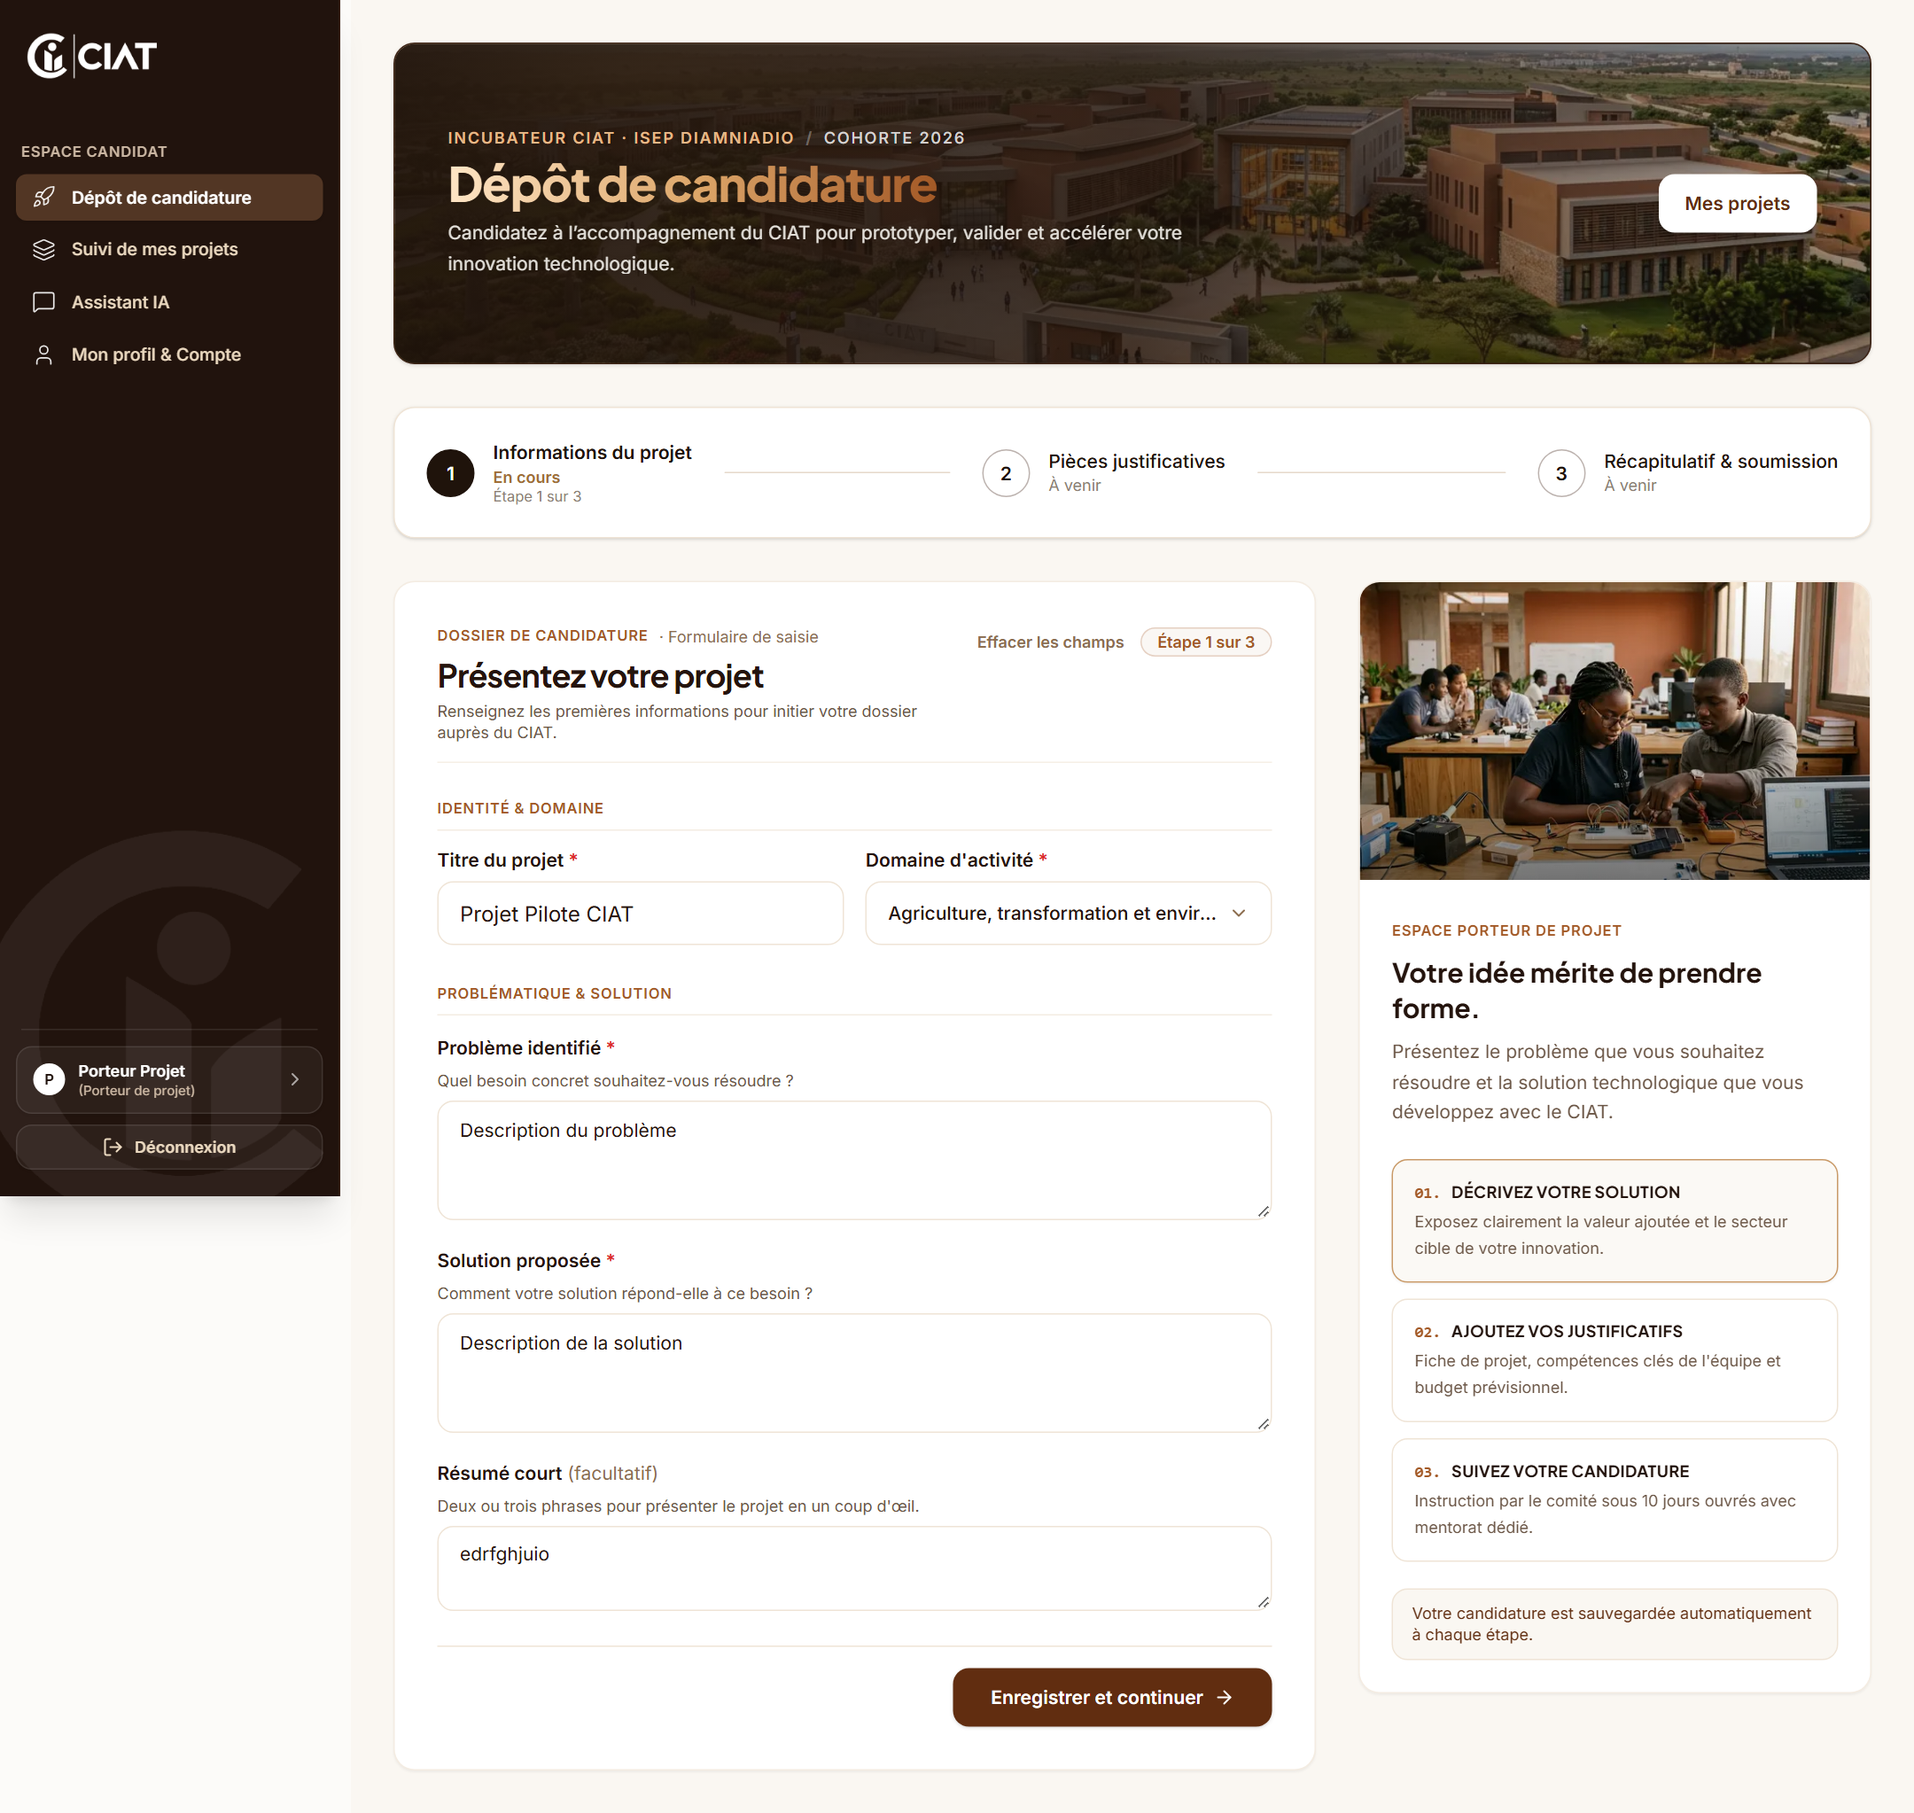
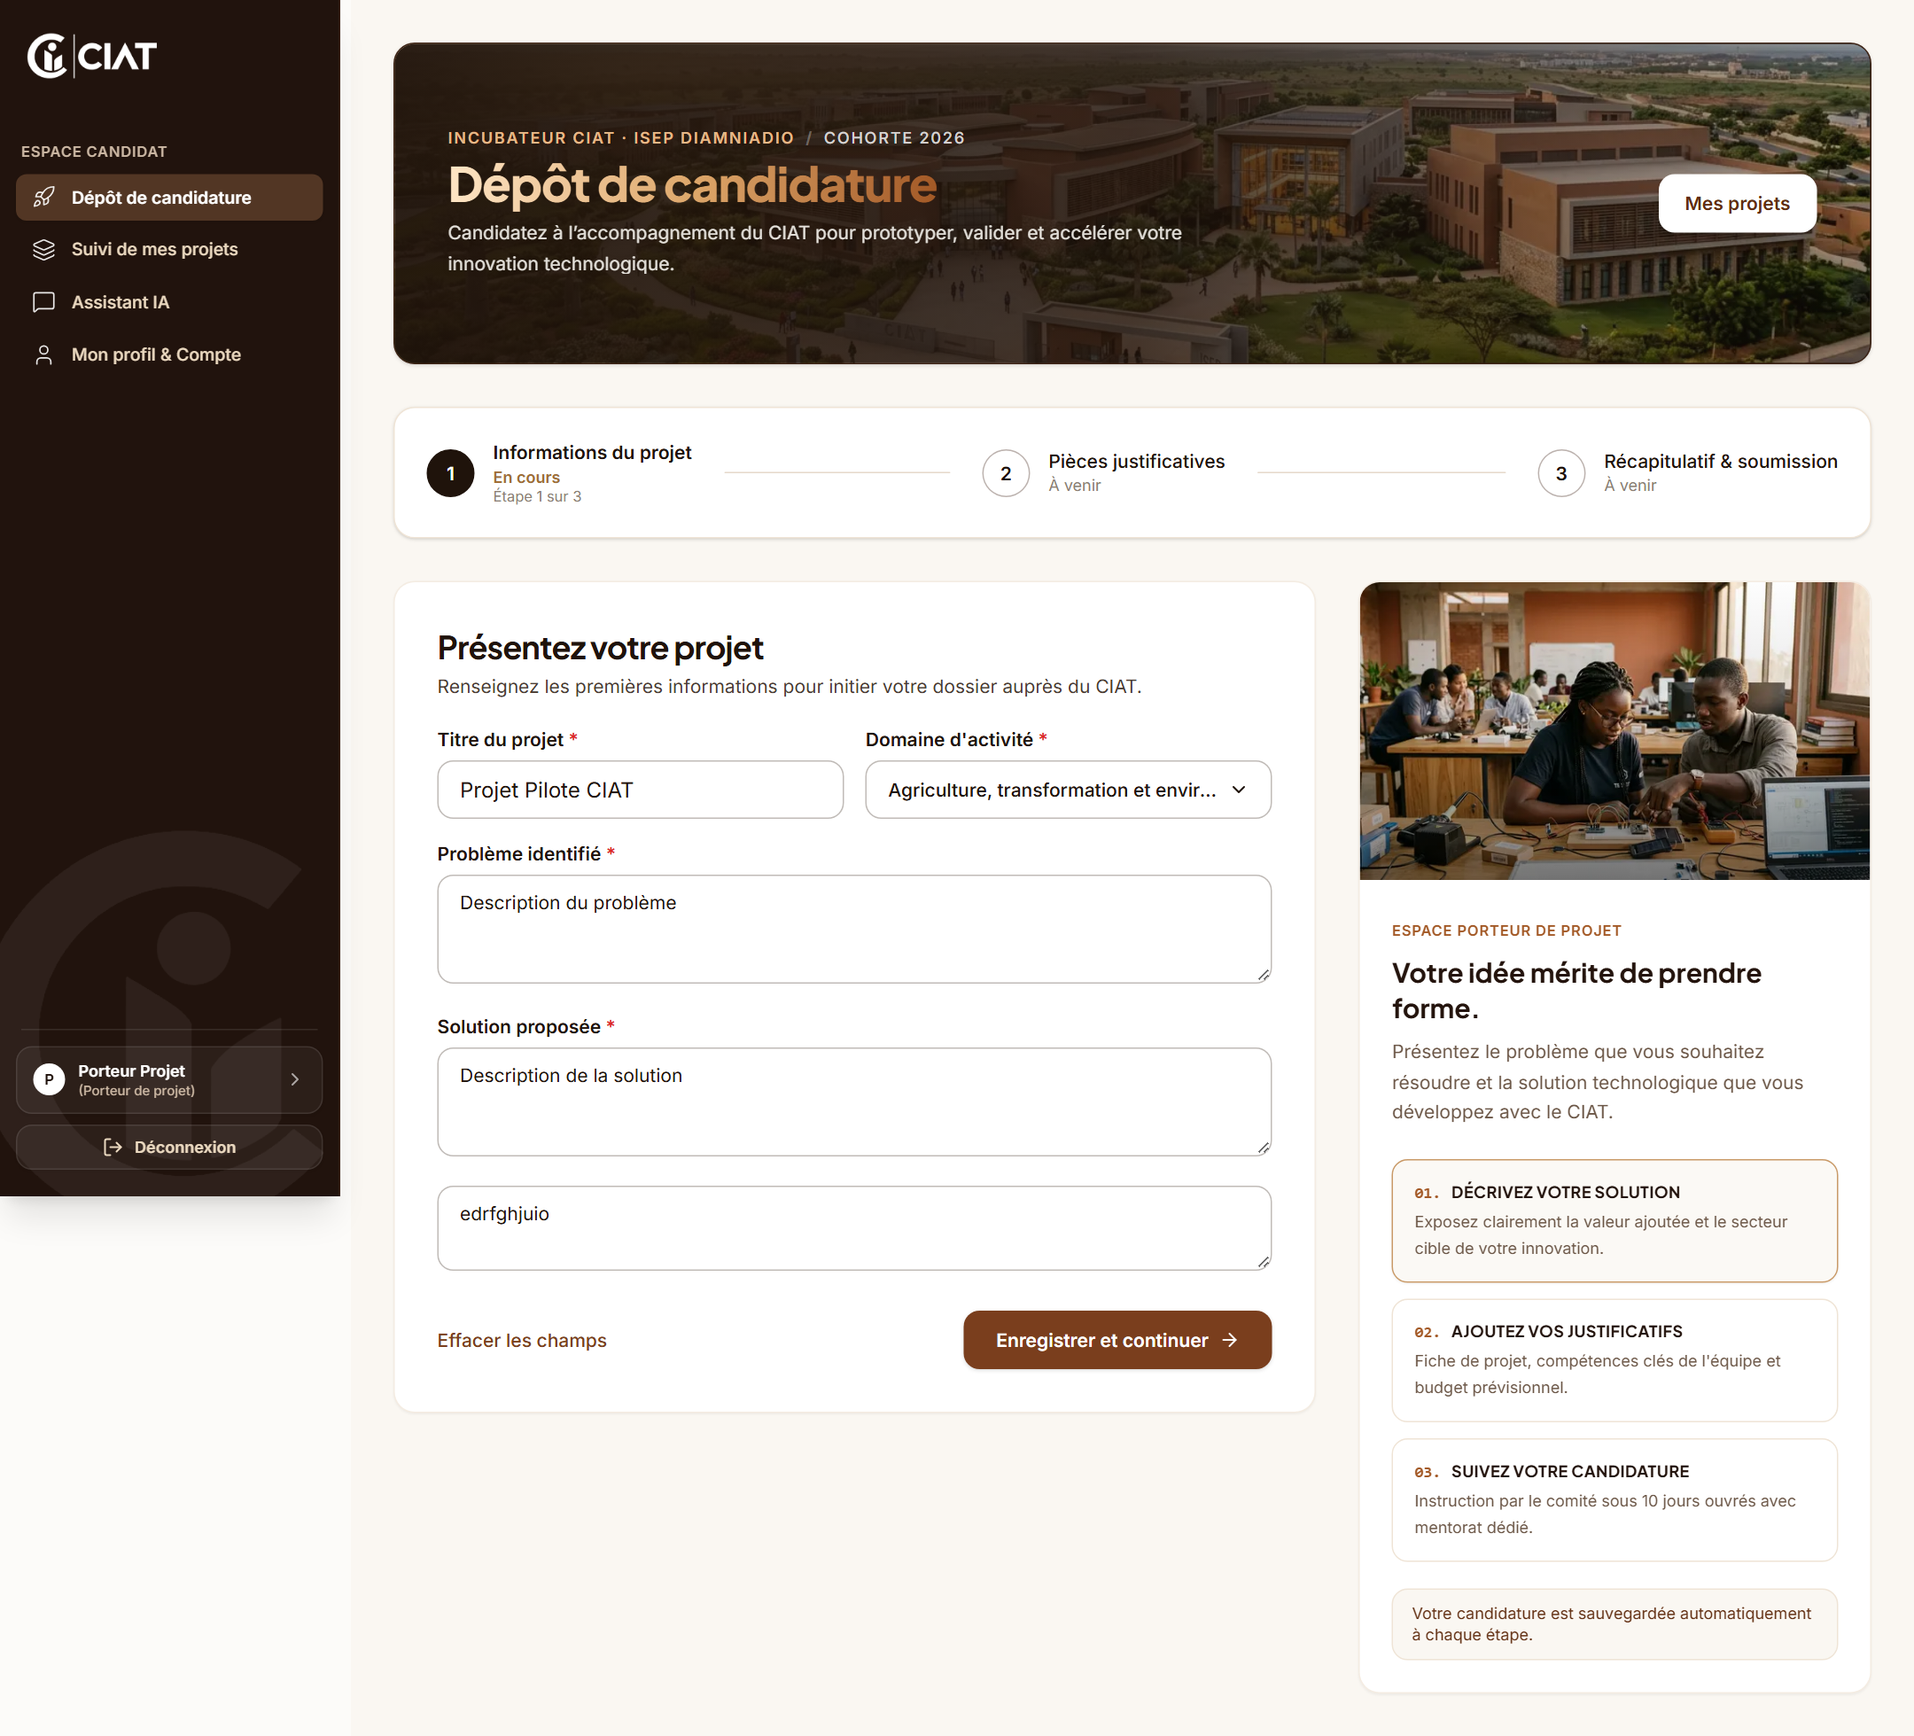
feat(incubateur): align project presentation form layout with mockup

diff --git a/frontend/src/components/incubateur/ProjectInfoStep.tsx b/frontend/src/components/incubateur/ProjectInfoStep.tsx
@@ -1,4 +1,4 @@
-import { useState, useEffect, useRef, type ChangeEvent, type FormEvent, type ReactNode } from "react";
+import { useState, useEffect, useRef, type ChangeEvent, type FormEvent } from "react";
 import { ArrowRight, Check, ChevronDown } from "lucide-react";
 
 export interface Domaine {
@@ -17,31 +17,7 @@ export interface ProjectInfo {
 export const EMPTY_PROJECT_INFO: ProjectInfo = { titre: "", domaine: null, resume: "", probleme: "", solution: "" };
 
 const CONTROL =
-  "w-full rounded-xl border bg-white px-4 py-2.5 text-[#24140D] outline-none transition-all placeholder:text-[#a08f80] focus:border-[#C99A68] focus:ring-4 focus:ring-[#C99A68]/20";
-
-function Label({
-  htmlFor,
-  required,
-  optional,
-  children,
-}: {
-  htmlFor: string;
-  required?: boolean;
-  optional?: boolean;
-  children: ReactNode;
-}) {
-  return (
-    <label htmlFor={htmlFor} className="mb-1.5 block text-sm font-semibold text-[#24140D]">
-      {children}
-      {required && <span className="text-[#DC2626]"> *</span>}
-      {optional && <span className="font-normal text-[#8C6D4F]"> (facultatif)</span>}
-    </label>
-  );
-}
-
-function Subtitle({ children }: { children: ReactNode }) {
-  return <p className="mb-1.5 text-xs leading-normal text-[#6b5646]">{children}</p>;
-}
+  "w-full rounded-xl border border-[#4A3B32]/35 bg-white px-4 py-2.5 text-[#1F130B] outline-none transition-all placeholder:text-[#5A4638]/70 focus:border-[#7A3E1D] focus:ring-2 focus:ring-[#7A3E1D]/20";
 
 function CustomSelect({
   id,
@@ -89,23 +65,24 @@ function CustomSelect({
         type="button"
         role="combobox"
         aria-expanded={open}
+        aria-controls="domaine-options-list"
         aria-haspopup="listbox"
         aria-describedby={ariaDescribedBy}
         onClick={() => setOpen((prev) => !prev)}
-        className={`flex h-12 w-full items-center justify-between rounded-xl border bg-white px-4 text-left text-sm transition-all focus:outline-none focus:ring-4 focus:ring-[#C99A68]/20 ${
+        className={`flex h-11 w-full items-center justify-between rounded-xl border bg-white px-4 text-left text-sm transition-all focus:outline-none focus:ring-2 focus:ring-[#7A3E1D]/20 ${
           error
             ? "border-[#DC2626]"
             : open
-              ? "border-[#A35926] ring-2 ring-[#C99A68]/30"
-              : "border-[#EFE4D6] hover:border-[#C99A68]"
+              ? "border-[#7A3E1D] ring-2 ring-[#7A3E1D]/20"
+              : "border-[#4A3B32]/35 hover:border-[#7A3E1D]"
         }`}
       >
-        <span className={`block truncate pr-2 ${selected ? "font-medium text-[#24140D]" : "text-[#a08f80]"}`}>
-          {selected ? selected.nom : "Sélectionner un domaine"}
+        <span className={`block truncate pr-2 ${selected ? "font-medium text-[#1F130B]" : "text-[#5A4638]/70"}`}>
+          {selected ? selected.nom : ""}
         </span>
         <ChevronDown
-          className={`h-4 w-4 shrink-0 text-[#8C6D4F] transition-transform duration-200 ${
-            open ? "rotate-180 text-[#A35926]" : ""
+          className={`h-4 w-4 shrink-0 text-[#1F130B] transition-transform duration-200 ${
+            open ? "rotate-180 text-[#7A3E1D]" : ""
           }`}
           aria-hidden="true"
         />
@@ -113,6 +90,7 @@ function CustomSelect({
 
       {open && (
         <ul
+          id="domaine-options-list"
           role="listbox"
           tabIndex={-1}
           className="absolute z-50 mt-1.5 max-h-60 w-full overflow-y-auto rounded-xl border border-[#EFE4D6] bg-white py-1.5 shadow-xl transition-all"
@@ -181,42 +159,16 @@ export default function ProjectInfoStep({
     onSubmit({ ...form, titre: form.titre.trim() });
   }
 
-  const hasContent = Boolean(form.titre || form.probleme || form.solution || form.resume || form.domaine !== null);
-
   return (
-    <form onSubmit={submit} noValidate className="space-y-5">
-      <div className="flex flex-col gap-2.5 sm:flex-row sm:items-start sm:justify-between border-b border-[#EFE4D6]/60 pb-3.5">
-        <div className="space-y-1">
-          <div className="flex items-center gap-2">
-            <span className="text-[11px] font-bold uppercase tracking-wider text-[#A35926]">
-              Dossier de candidature
-            </span>
-            <span className="text-xs text-[#8C6D4F]">· Formulaire de saisie</span>
-          </div>
-          <h2 className="font-[family-name:var(--font-title)] text-xl sm:text-2xl font-bold tracking-tight text-[#24140D]">
-            Présentez votre projet
-          </h2>
-          <p className="text-xs text-[#6b5646]">
-            Renseignez les premières informations pour initier votre dossier auprès du CIAT.
-          </p>
-        </div>
-        <div className="flex items-center gap-3 shrink-0 pt-0.5">
-          {hasContent && (
-            <button
-              type="button"
-              onClick={() => {
-                setForm(EMPTY_PROJECT_INFO);
-                setErrors({});
-              }}
-              className="text-xs font-semibold text-[#8C6D4F] transition-colors hover:text-[#DC2626]"
-            >
-              Effacer les champs
-            </button>
-          )}
-          <span className="inline-flex items-center rounded-full border border-[#A35926]/25 bg-[#A35926]/5 px-3 py-0.5 text-xs font-bold text-[#A35926]">
-            Étape 1 sur 3
-          </span>
-        </div>
+    <form onSubmit={submit} noValidate className="space-y-4">
+      {/* En-tête simplifié fidèle à la maquette */}
+      <div className="space-y-1 pb-1">
+        <h2 className="text-xl sm:text-2xl font-bold tracking-tight text-[#1F130B]">
+          Présentez votre projet
+        </h2>
+        <p className="text-sm text-[#4A3B32]">
+          Renseignez les premières informations pour initier votre dossier auprès du CIAT.
+        </p>
       </div>
 
       {error && (
@@ -225,98 +177,101 @@ export default function ProjectInfoStep({
         </div>
       )}
 
-      {/* SECTION 1 : IDENTITÉ & DOMAINE */}
-      <div className="space-y-3">
-        <div className="border-b border-[#EFE4D6]/70 pb-1.5">
-          <span className="text-[11px] font-bold uppercase tracking-wider text-[#A35926]">
-            Identité & Domaine
-          </span>
+      {/* Ligne 1 : Titre du projet & Domaine d'activité (2 colonnes) */}
+      <div className="grid gap-4 sm:grid-cols-2 items-start">
+        <div>
+          <label htmlFor="titre" className="mb-1.5 block text-sm font-bold text-[#1F130B]">
+            Titre du projet <span className="text-[#DC2626]">*</span>
+          </label>
+          <input
+            id="titre"
+            maxLength={200}
+            value={form.titre}
+            onChange={set("titre")}
+            aria-invalid={Boolean(errors.titre)}
+            aria-describedby={errors.titre ? "titre-error" : undefined}
+            placeholder="Ex: Système de prototypage solaire"
+            className={`${CONTROL} h-11 ${errors.titre ? "border-[#DC2626]" : ""}`}
+          />
+          {errors.titre && <p id="titre-error" className="mt-1 text-xs text-[#DC2626]">{errors.titre}</p>}
         </div>
 
-        <div className="grid gap-4 sm:grid-cols-2 items-start">
-          <div>
-            <Label htmlFor="titre" required>Titre du projet</Label>
-            <input
-              id="titre"
-              maxLength={200}
-              value={form.titre}
-              onChange={set("titre")}
-              aria-invalid={Boolean(errors.titre)}
-              aria-describedby={errors.titre ? "titre-error" : undefined}
-              placeholder="Ex. : Irrigation solaire pour maraîchers"
-              className={`${CONTROL} h-12 ${errors.titre ? "border-[#DC2626]" : "border-[#EFE4D6]"}`}
-            />
-            {errors.titre && <p id="titre-error" className="mt-1.5 text-xs text-[#DC2626]">{errors.titre}</p>}
-          </div>
-
-          <div>
-            <Label htmlFor="domaine" required>Domaine d&apos;activité</Label>
-            <CustomSelect
-              id="domaine"
-              value={form.domaine}
-              options={domaines}
-              error={Boolean(errors.domaine)}
-              ariaDescribedBy={errors.domaine ? "domaine-error" : undefined}
-              onChange={(id) => setForm((f) => ({ ...f, domaine: id }))}
-            />
-            {errors.domaine && <p id="domaine-error" className="mt-1.5 text-xs text-[#DC2626]">{errors.domaine}</p>}
-          </div>
+        <div>
+          <label htmlFor="domaine" className="mb-1.5 block text-sm font-bold text-[#1F130B]">
+            Domaine d&apos;activité <span className="text-[#DC2626]">*</span>
+          </label>
+          <CustomSelect
+            id="domaine"
+            value={form.domaine}
+            options={domaines}
+            error={Boolean(errors.domaine)}
+            ariaDescribedBy={errors.domaine ? "domaine-error" : undefined}
+            onChange={(id) => setForm((f) => ({ ...f, domaine: id }))}
+          />
+          {errors.domaine && <p id="domaine-error" className="mt-1 text-xs text-[#DC2626]">{errors.domaine}</p>}
         </div>
       </div>
 
-      {/* SECTION 2 : PROBLÉMATIQUE & SOLUTION */}
-      <div className="space-y-3.5 pt-0.5">
-        <div className="border-b border-[#EFE4D6]/70 pb-1.5">
-          <span className="text-[11px] font-bold uppercase tracking-wider text-[#A35926]">
-            Problématique & Solution
-          </span>
-        </div>
-
-        <div>
-          <Label htmlFor="probleme" required>Problème identifié</Label>
-          <Subtitle>Quel besoin concret souhaitez-vous résoudre ?</Subtitle>
-          <textarea
-            id="probleme"
-            rows={3}
-            value={form.probleme}
-            onChange={set("probleme")}
-            placeholder="Décrivez la situation actuelle..."
-            className={`${CONTROL} min-h-20 resize-y border-[#EFE4D6] leading-relaxed text-sm`}
-          />
-        </div>
-
-        <div>
-          <Label htmlFor="solution" required>Solution proposée</Label>
-          <Subtitle>Comment votre solution répond-elle à ce besoin ?</Subtitle>
-          <textarea
-            id="solution"
-            rows={3}
-            value={form.solution}
-            onChange={set("solution")}
-            placeholder="Décrivez votre solution, son fonctionnement et son apport..."
-            className={`${CONTROL} min-h-20 resize-y border-[#EFE4D6] leading-relaxed text-sm`}
-          />
-        </div>
-
-        <div>
-          <Label htmlFor="resume" optional>Résumé court</Label>
-          <Subtitle>Deux ou trois phrases pour présenter le projet en un coup d&apos;œil.</Subtitle>
-          <textarea
-            id="resume"
-            rows={2}
-            value={form.resume}
-            onChange={set("resume")}
-            placeholder="Présentez votre projet en deux ou trois phrases."
-            className={`${CONTROL} min-h-16 resize-y border-[#EFE4D6] text-sm`}
-          />
-        </div>
+      {/* Ligne 2 : Problème identifié */}
+      <div>
+        <label htmlFor="probleme" className="mb-1.5 block text-sm font-bold text-[#1F130B]">
+          Problème identifié <span className="text-[#DC2626]">*</span>
+        </label>
+        <textarea
+          id="probleme"
+          rows={3}
+          value={form.probleme}
+          onChange={set("probleme")}
+          placeholder="Quel besoin concret souhaitez-vous résoudre ?"
+          className={`${CONTROL} min-h-20 resize-y text-sm`}
+        />
       </div>
 
-      <div className="flex justify-end border-t border-[#EFE4D6] pt-4">
+      {/* Ligne 3 : Solution proposée */}
+      <div>
+        <label htmlFor="solution" className="mb-1.5 block text-sm font-bold text-[#1F130B]">
+          Solution proposée <span className="text-[#DC2626]">*</span>
+        </label>
+        <textarea
+          id="solution"
+          rows={3}
+          value={form.solution}
+          onChange={set("solution")}
+          placeholder="Comment votre projet répond-il à ce besoin ?"
+          className={`${CONTROL} min-h-20 resize-y text-sm`}
+        />
+      </div>
+
+      {/* Ligne 4 : Résumé court (facultatif) */}
+      <div>
+        <textarea
+          id="resume"
+          rows={2}
+          value={form.resume}
+          onChange={set("resume")}
+          placeholder="Résumé court (facultatif)"
+          className={`${CONTROL} min-h-16 resize-y text-sm`}
+          aria-label="Résumé court (facultatif)"
+        />
+      </div>
+
+      {/* Pied de formulaire : Effacer les champs à gauche & Enregistrer et continuer à droite */}
+      <div className="flex items-center justify-between pt-2">
+        <button
+          type="button"
+          onClick={() => {
+            setForm(EMPTY_PROJECT_INFO);
+            setErrors({});
+          }}
+          className="text-sm font-medium text-[#7A3E1D] transition-colors hover:text-[#4A2411] hover:underline"
+        >
+          Effacer les champs
+        </button>
+
         <button
           type="submit"
           disabled={saving}
-          className="inline-flex h-11 items-center justify-center gap-2 rounded-xl bg-[#612D10] px-7 text-sm font-semibold text-white shadow-sm transition-all hover:bg-[#3F1D0A] hover:scale-[1.01] focus:outline-none focus:ring-2 focus:ring-[#C99A68] focus:ring-offset-2 disabled:cursor-not-allowed disabled:opacity-60"
+          className="inline-flex h-11 items-center justify-center gap-2 rounded-xl bg-[#7A3E1D] px-6 text-sm font-semibold text-white shadow-sm transition-all hover:bg-[#5C2E15] hover:scale-[1.01] focus:outline-none focus:ring-2 focus:ring-[#C99A68] focus:ring-offset-2 disabled:cursor-not-allowed disabled:opacity-60"
         >
           {saving && <span aria-hidden className="h-4 w-4 animate-spin rounded-full border-2 border-white/40 border-t-white" />}
           <span>{saving ? "Enregistrement…" : "Enregistrer et continuer"}</span>
